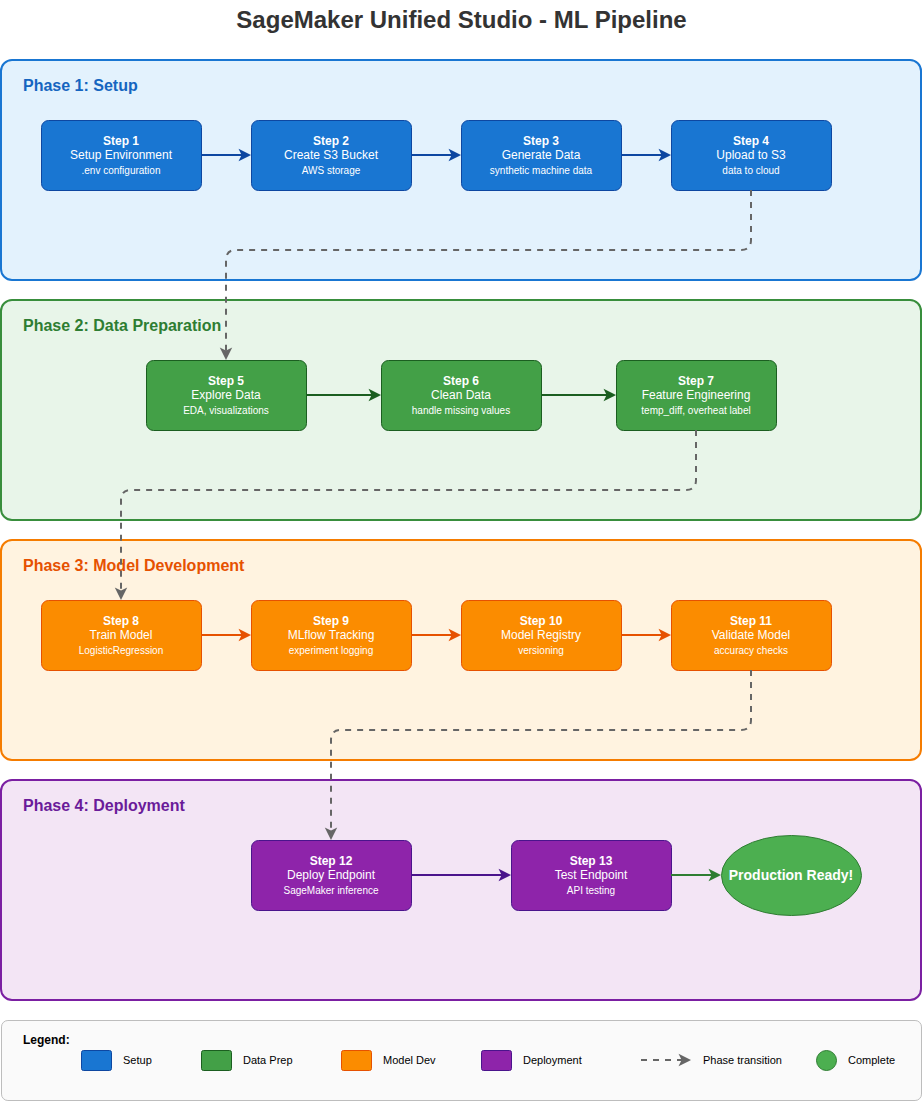
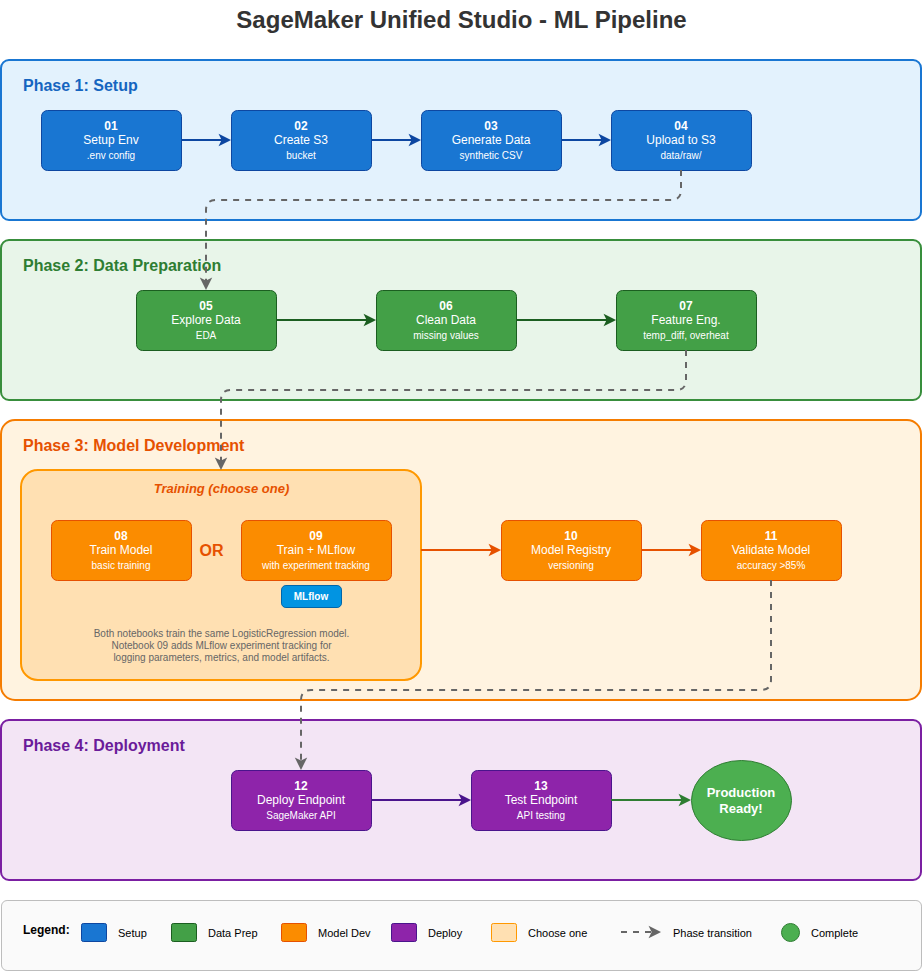
docs: clarify notebooks 08 and 09 are equivalent alternatives
- Update diagram to show 08/09 side-by-side with OR connector
- Add dashed box grouping to indicate choose-one relationship
- Update README Phase 3 table with "8 OR 9" step notation
- Add note explaining both notebooks train the same model,
  with 09 adding MLflow experiment tracking

diff --git a/USE_CASE.md b/USE_CASE.md
@@ -3,6 +3,7 @@
 ## Business Problem
 
 In industrial environments, **machine overheating** is a critical issue that can lead to:
+
 - Equipment damage and costly repairs
 - Unplanned downtime affecting production
 - Safety hazards for workers
@@ -21,10 +22,12 @@ This project implements a **predictive maintenance** solution using machine lear
 ## The Prediction Task
 
 **Input**: Real-time sensor readings
+
 - `temperature`: Current machine temperature (°C)
 - `room_temp`: Ambient room temperature (°C)
 
 **Output**: Binary classification
+
 - `0` = Normal operation (no action needed)
 - `1` = Overheating risk (requires attention)
 
@@ -43,36 +46,36 @@ A machine running at 75°C in a 20°C room (diff = 55°C) is in a different stat
 
 ### Phase 1: Setup (Notebooks 01-04)
 
-| Step | Purpose | Why It Matters |
-|------|---------|----------------|
-| **01 - Setup Environment** | Create configuration file with AWS settings | Ensures all notebooks use consistent bucket/region settings |
-| **02 - Create S3 Bucket** | Provision cloud storage | Centralized data lake for raw data, processed data, and models |
-| **03 - Generate Data** | Create synthetic sensor readings | Simulates 30 days of data from 5 machines (~216K readings) |
-| **04 - Upload to S3** | Move data to cloud | Makes data accessible for distributed processing and team collaboration |
+| Step                             | Purpose                                     | Why It Matters                                                          |
+| -------------------------------- | ------------------------------------------- | ----------------------------------------------------------------------- |
+| **01 - Setup Environment** | Create configuration file with AWS settings | Ensures all notebooks use consistent bucket/region settings             |
+| **02 - Create S3 Bucket**  | Provision cloud storage                     | Centralized data lake for raw data, processed data, and models          |
+| **03 - Generate Data**     | Create synthetic sensor readings            | Simulates 30 days of data from 5 machines (~216K readings)              |
+| **04 - Upload to S3**      | Move data to cloud                          | Makes data accessible for distributed processing and team collaboration |
 
 ### Phase 2: Data Preparation (Notebooks 05-07)
 
-| Step | Purpose | Why It Matters |
-|------|---------|----------------|
-| **05 - Explore Data** | Understand data distributions and patterns | Identifies data quality issues, class imbalance, and feature relationships |
-| **06 - Clean Data** | Handle missing values, fix types | Ensures model receives consistent, valid inputs |
-| **07 - Feature Engineering** | Create `temp_diff` and `overheat` label | Transforms raw data into predictive features; defines the target variable |
+| Step                               | Purpose                                     | Why It Matters                                                             |
+| ---------------------------------- | ------------------------------------------- | -------------------------------------------------------------------------- |
+| **05 - Explore Data**        | Understand data distributions and patterns  | Identifies data quality issues, class imbalance, and feature relationships |
+| **06 - Clean Data**          | Handle missing values, fix types            | Ensures model receives consistent, valid inputs                            |
+| **07 - Feature Engineering** | Create `temp_diff` and `overheat` label | Transforms raw data into predictive features; defines the target variable  |
 
 ### Phase 3: Model Development (Notebooks 08-11)
 
-| Step | Purpose | Why It Matters |
-|------|---------|----------------|
-| **08 - Train Model** | Fit Logistic Regression on training data | Creates the predictive model; evaluates accuracy, precision, recall |
-| **09 - MLflow Tracking** | Log experiments with parameters and metrics | Enables reproducibility; tracks model versions; facilitates comparison |
-| **10 - Model Registry** | Register model for governance | Version control for models; approval workflow; lineage tracking |
-| **11 - Validate Model** | Verify model meets quality thresholds | Gate before deployment; ensures >85% accuracy; checks for degenerate predictions |
+| Step                           | Purpose                                     | Why It Matters                                                                   |
+| ------------------------------ | ------------------------------------------- | -------------------------------------------------------------------------------- |
+| **08 - Train Model**     | Fit Logistic Regression on training data    | Creates the predictive model; evaluates accuracy, precision, recall              |
+| **09 - MLflow Tracking** | Log experiments with parameters and metrics | Enables reproducibility; tracks model versions; facilitates comparison           |
+| **10 - Model Registry**  | Register model for governance               | Version control for models; approval workflow; lineage tracking                  |
+| **11 - Validate Model**  | Verify model meets quality thresholds       | Gate before deployment; ensures >85% accuracy; checks for degenerate predictions |
 
 ### Phase 4: Deployment (Notebooks 12-13)
 
-| Step | Purpose | Why It Matters |
-|------|---------|----------------|
-| **12 - Deploy Endpoint** | Create real-time inference API | Makes model accessible for production systems; handles scaling |
-| **13 - Test Endpoint** | Validate deployed model behavior | Confirms API works correctly; tests edge cases; documents integration |
+| Step                           | Purpose                          | Why It Matters                                                        |
+| ------------------------------ | -------------------------------- | --------------------------------------------------------------------- |
+| **12 - Deploy Endpoint** | Create real-time inference API   | Makes model accessible for production systems; handles scaling        |
+| **13 - Test Endpoint**   | Validate deployed model behavior | Confirms API works correctly; tests edge cases; documents integration |
 
 ## Model Performance
 
@@ -99,6 +102,7 @@ Once deployed, the model can be integrated into:
 ```
 
 **Example API call**:
+
 ```python
 response = endpoint.predict({
     'temperature': 82,
@@ -109,17 +113,17 @@ response = endpoint.predict({
 
 ## Business Value
 
-| Metric | Impact |
-|--------|--------|
-| **Downtime reduction** | Prevent unplanned outages by acting before failures |
-| **Maintenance cost** | Reduce unnecessary scheduled maintenance |
-| **Equipment lifespan** | Prevent damage from overheating events |
-| **Safety** | Reduce risk of heat-related incidents |
-| **Efficiency** | Optimize technician time with targeted interventions |
+| Metric                       | Impact                                               |
+| ---------------------------- | ---------------------------------------------------- |
+| **Downtime reduction** | Prevent unplanned outages by acting before failures  |
+| **Maintenance cost**   | Reduce unnecessary scheduled maintenance             |
+| **Equipment lifespan** | Prevent damage from overheating events               |
+| **Safety**             | Reduce risk of heat-related incidents                |
+| **Efficiency**         | Optimize technician time with targeted interventions |
 
 ## Educational Purpose
 
-This project is designed for **ESADE students** learning MLOps on AWS SageMaker Unified Studio. It demonstrates:
+This project is designed for **students** learning AWS SageMaker Unified Studio. It demonstrates:
 
 1. **End-to-end ML lifecycle** - From raw data to production API
 2. **AWS SageMaker components** - Notebooks, MLflow, Model Registry, Endpoints
@@ -129,12 +133,14 @@ This project is designed for **ESADE students** learning MLOps on AWS SageMaker 
 ## Limitations & Future Improvements
 
 **Current limitations**:
+
 - Synthetic data (not real sensor readings)
 - Single model type (Logistic Regression)
 - Binary classification only (overheat yes/no)
 - No time-series features (trends, seasonality)
 
 **Potential improvements**:
+
 - Add time-series features (rolling averages, rate of change)
 - Implement anomaly detection for unusual patterns
 - Multi-class prediction (normal, warning, critical)

diff --git a/README.md b/README.md
@@ -29,10 +29,12 @@ This repository contains 13 Jupyter notebooks that guide you through the complet
 
 | Step | Notebook | Purpose | Key Actions |
 |------|----------|---------|-------------|
-| 8 | `08_train_model.ipynb` | Model Training | Train LogisticRegression, evaluate metrics, save model |
-| 9 | `09_mlflow_tracking.ipynb` | Experiment Tracking | Log parameters, metrics, and model artifacts to MLflow |
+| 8 **OR** 9 | `08_train_model.ipynb` | Model Training (basic) | Train LogisticRegression, evaluate metrics, save model |
+| 8 **OR** 9 | `09_mlflow_tracking.ipynb` | Model Training + MLflow | Same training with experiment tracking |
 | 10 | `10_model_registry.ipynb` | Model Registry | Register model version for governance and lineage |
 | 11 | `11_validate_model.ipynb` | Model Validation | Accuracy checks (>85% threshold), prediction distribution |
+
+> **Note**: Notebooks 08 and 09 are **equivalent alternatives** - both train the same LogisticRegression model. The only difference is that notebook 09 includes MLflow experiment tracking (logging parameters, metrics, and model artifacts). **Choose one** based on whether you want to use MLflow.
 
 ### Phase 4: Deployment
 
